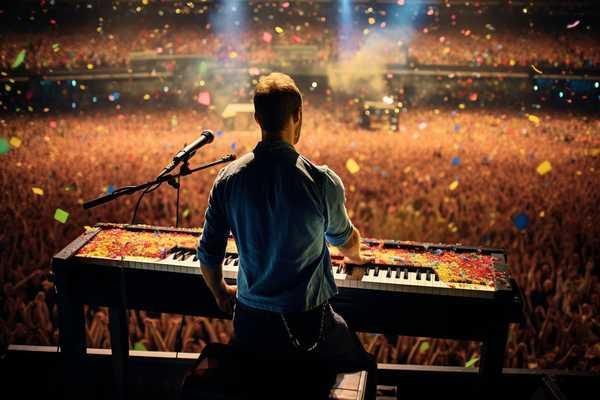
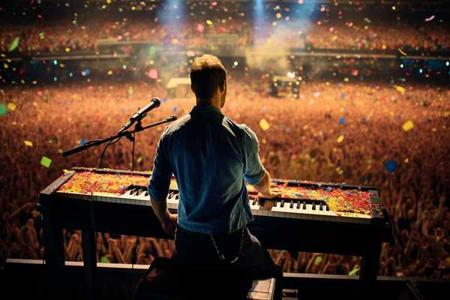
redimensionar las imagenes

diff --git a/src/detail.html b/src/detail.html
@@ -84,8 +84,8 @@
                                 type="image/webp">
                             <source media="(min-width:769px)" srcset="./images/detail.jpg?as=webp" type="image/webp">
                             <!-- Imagen de respaldo para navegadores antiguos -->
-                            <img src="./images/detail.jpg" alt="Coldplay actuando en vivo en la calle" width="800"
-                                height="553" class="img-fluid" fetchpriority="high">
+                            <img src="./images/detail.jpg" alt="Coldplay actuando en vivo en la calle" width="500"
+                                height="333" class="img-fluid">
                         </picture>
 
                         <p class="meta-data">Artículo escrito por Magdalena Bordalí - 15 de agosto de 2018 </p>
@@ -179,10 +179,10 @@
                             <div class="card-image">
                                 <!-- Conversión de formato a avif/webp con Sharp (plan A:avif ; plan B : webp; plan C : jpeg original) -->
                                 <picture>
-                                    <source srcset="./images/articulo-1.jpeg?as=avif&width=600" type="image/avif">
-                                    <source srcset="./images/articulo-1.jpeg?as=webp&width=600" type="image/webp">
-                                    <img src="./images/articulo-1.jpeg?width=600" alt="Concierto vivo de Parachutes"
-                                        class="img-fluid" width="600" height="400" loading="lazy">
+                                    <source srcset="./images/articulo-1.jpeg?as=avif" type="image/avif">
+                                    <source srcset="./images/articulo-1.jpeg?as=webp" type="image/webp">
+                                    <img src="./images/articulo-1.jpeg" alt="Concierto vivo de Parachutes"
+                                        class="img-fluid" width="450" height="300" loading="lazy">
                                 </picture>
 
 
@@ -198,10 +198,10 @@
 
                                 <!-- Conversión de formato a avif/webp con Sharp (plan A: webp; plan B : avif; plan C : jpeg original)-->
                                 <picture>
-                                    <source srcset="./images/articulo-2.jpeg?as=webp&width=600" type="image/webp">
-                                    <source srcset="./images/articulo-2.jpeg?as=avif&width=600" type="image/avif">
-                                    <img src="./images/articulo-2.jpeg?width=600" alt="Concierto vivo de Mylo Xyloto"
-                                        class="img-fluid" width="600" height="400" loading="lazy">
+                                    <source srcset="./images/articulo-2.jpeg?as=webp" type="image/webp">
+                                    <source srcset="./images/articulo-2.jpeg?as=avif" type="image/avif">
+                                    <img src="./images/articulo-2.jpeg" alt="Concierto vivo de Mylo Xyloto"
+                                        class="img-fluid" width="450" height="300" loading="lazy">
                                 </picture>
 
                             </div>
@@ -215,10 +215,10 @@
                             <div class="card-image">
                                 <!-- Conversión de formato a avif/webp con Sharp (plan A:avif ; plan B : webp; plan C : jpeg original) -->
                                 <picture>
-                                    <source srcset="./images/articulo-3.jpeg?as=avif&width=600" type="image/avif">
-                                    <source srcset="./images/articulo-3.jpeg?as=webp&width=600" type="image/webp">
-                                    <img src="./images/articulo-3.jpeg?width=600" alt="Concierto vivo de Ghost Stories"
-                                        class="img-fluid" width="600" height="400" loading="lazy">
+                                    <source srcset="./images/articulo-3.jpeg?as=avif" type="image/avif">
+                                    <source srcset="./images/articulo-3.jpeg?as=webp" type="image/webp">
+                                    <img src="./images/articulo-3.jpeg" alt="Concierto vivo de Ghost Stories"
+                                        class="img-fluid" width="450" height="300" loading="lazy">
                                 </picture>
 
                             </div>
